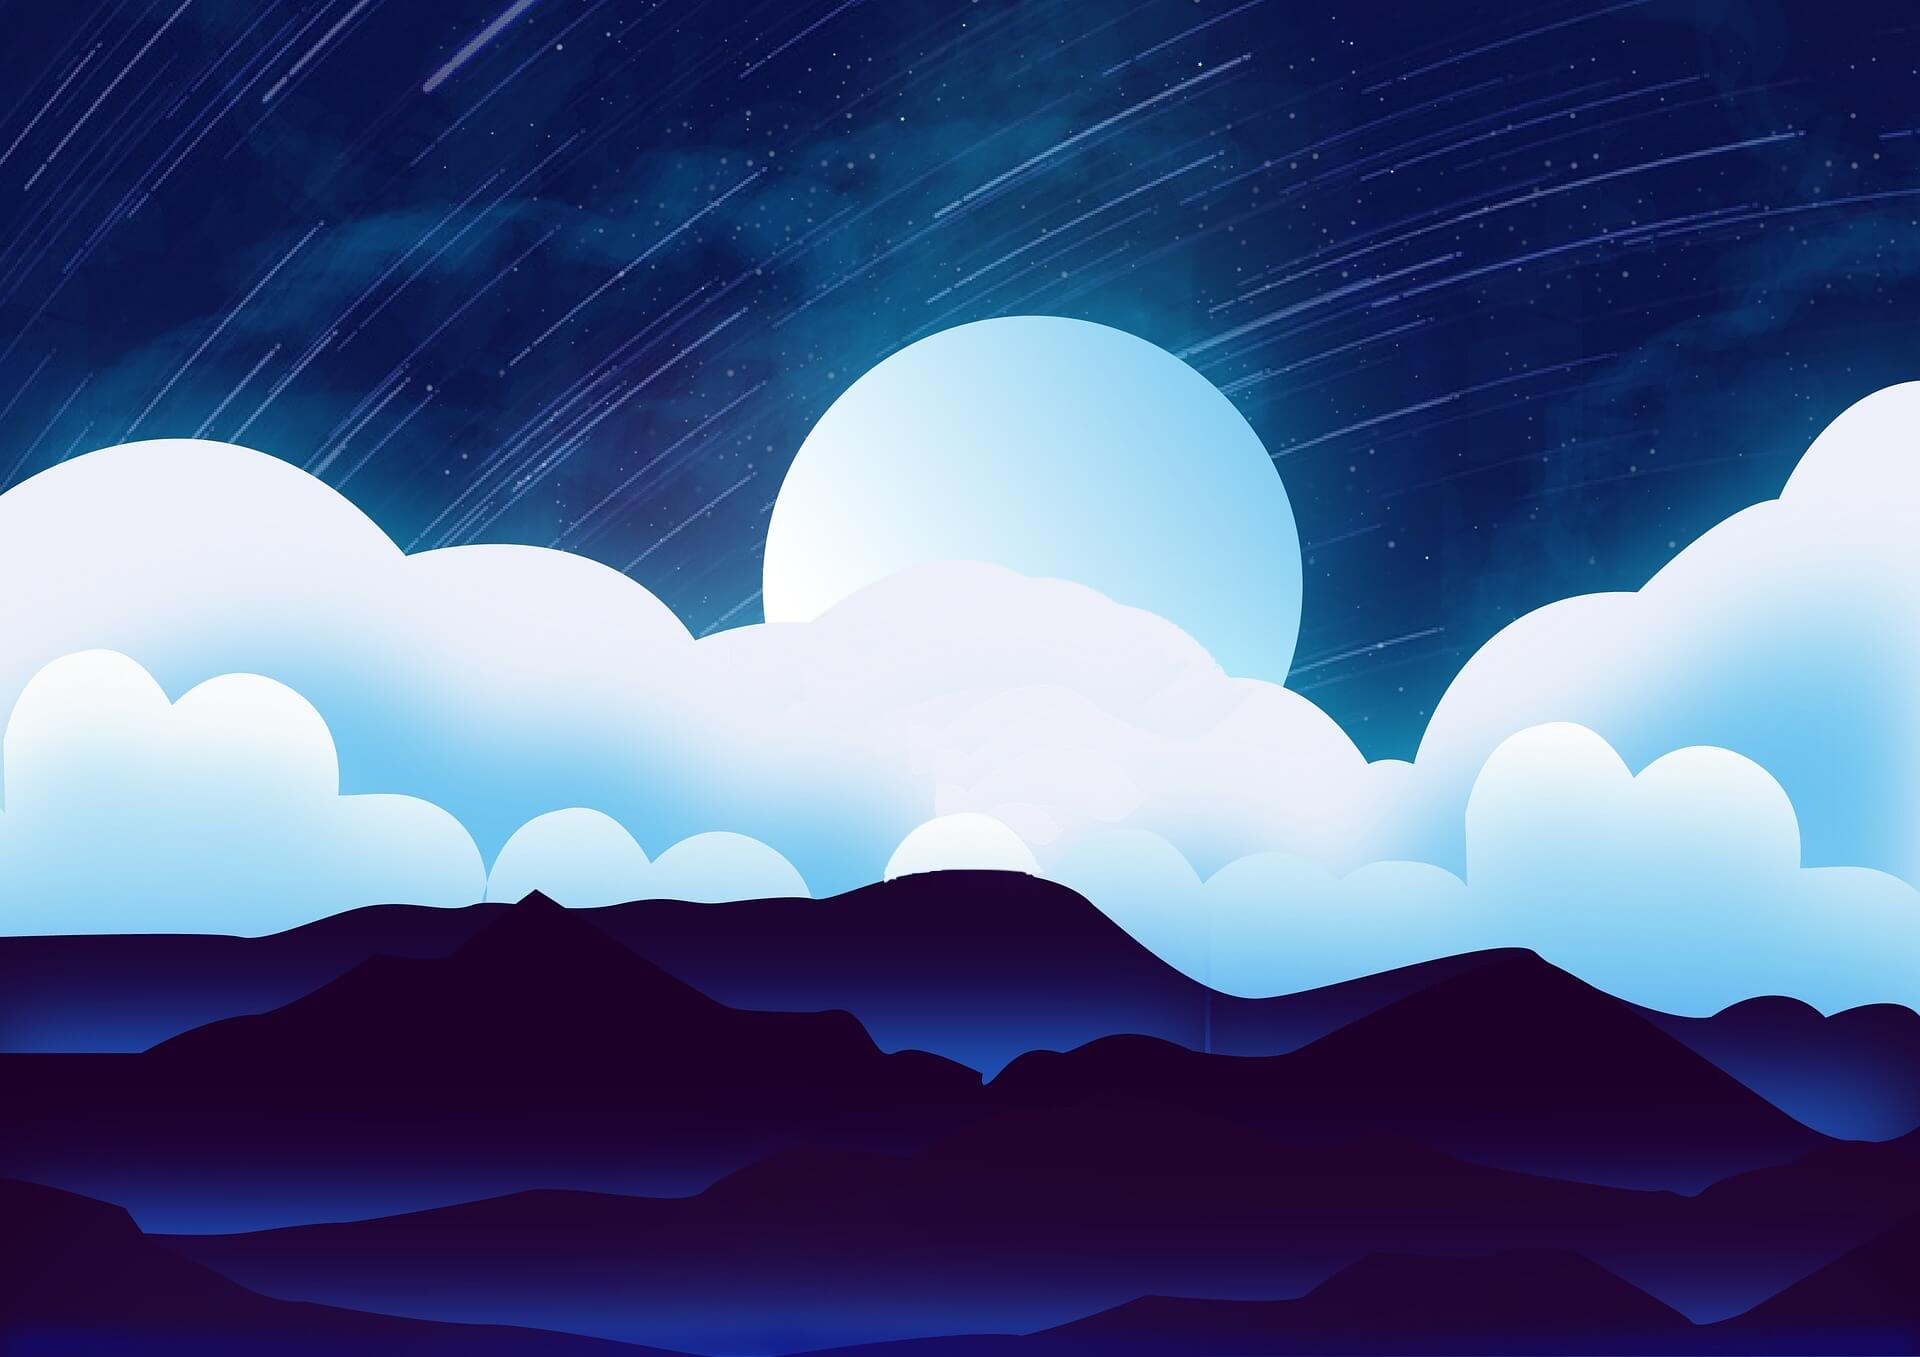
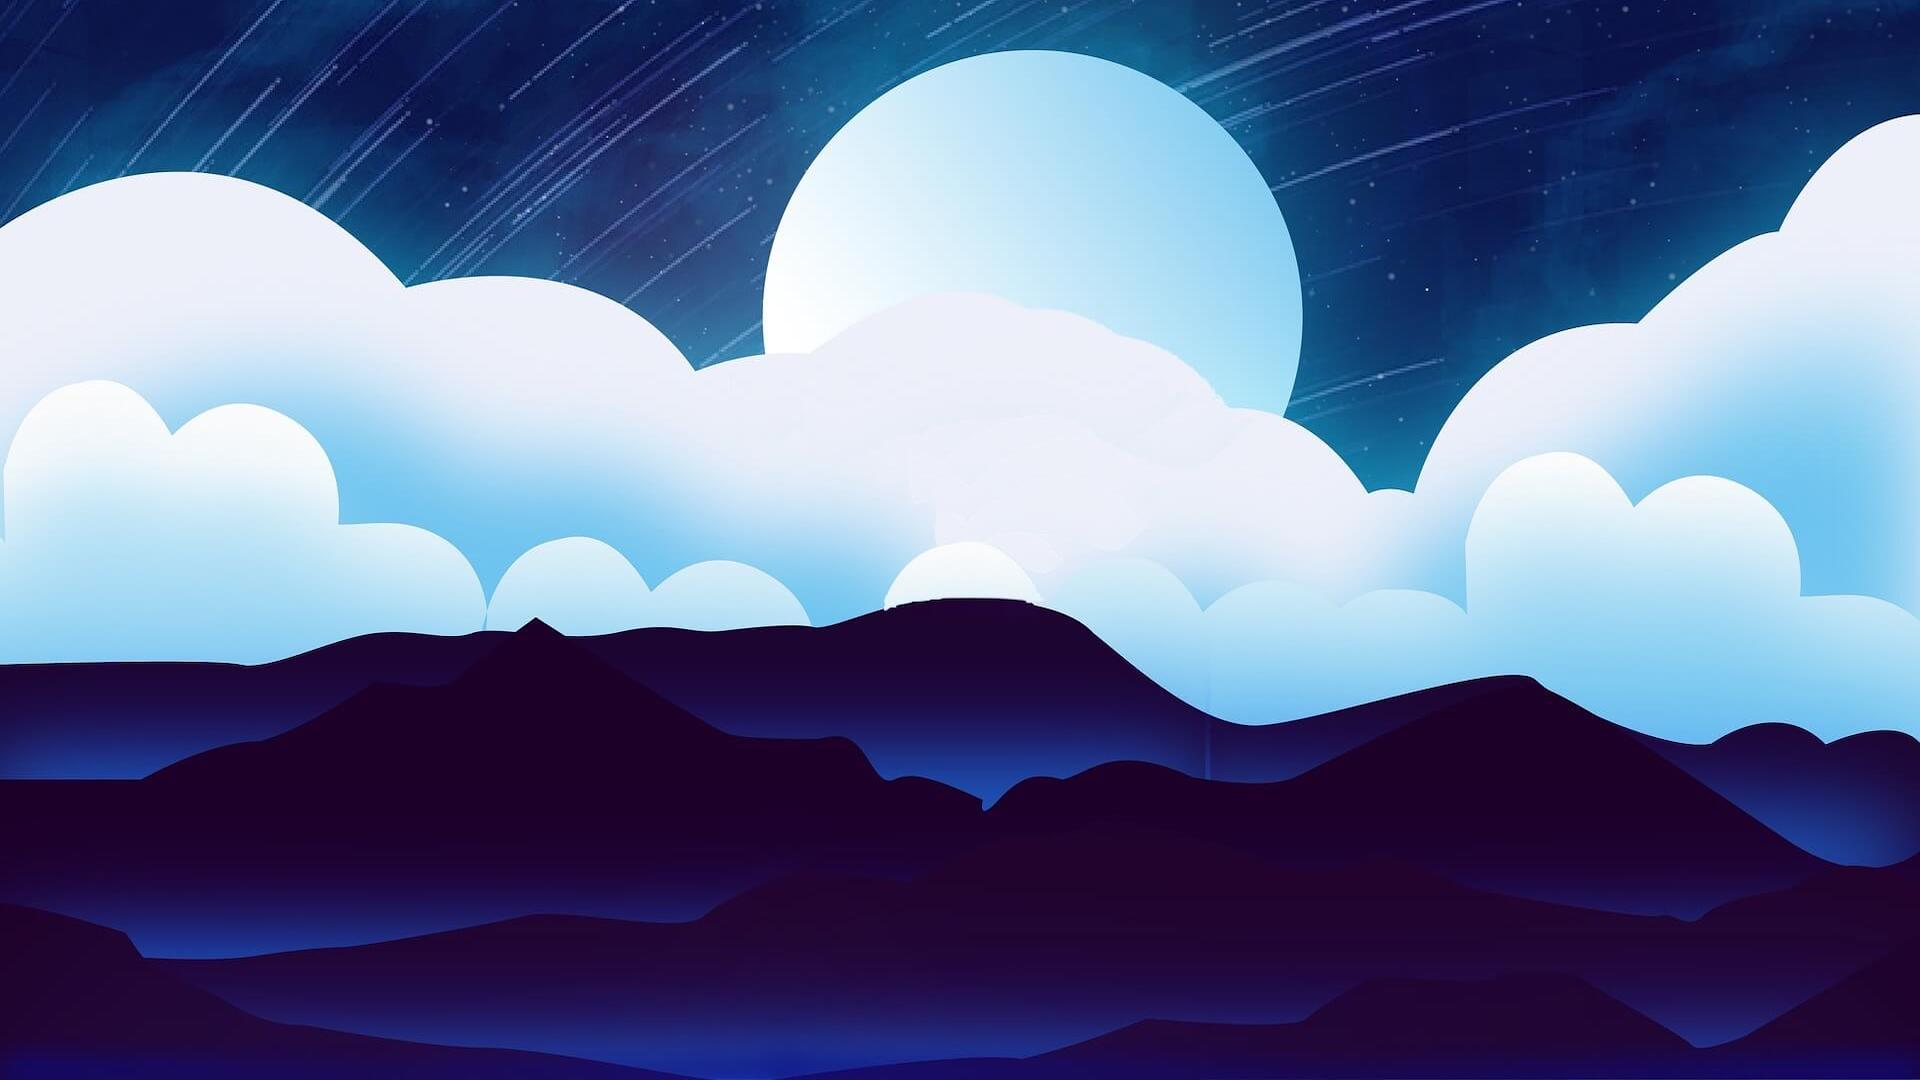
RI-76 responsive images of the planets

diff --git a/src/components/planets/planet.jsx b/src/components/planets/planet.jsx
@@ -8,6 +8,18 @@ import "./planet.css";
 
 const Planet = (props) => {
   const general = useContext(GeneralContext);
+  const xs =
+    require(`../../images/planet-images/320/${props.planetImg}-background.jpg`).default;
+  const s =
+    require(`../../images/planet-images/480/${props.planetImg}-background.jpg`).default;
+  const m =
+    require(`../../images/planet-images/640/${props.planetImg}-background.jpg`).default;
+  const l =
+    require(`../../images/planet-images/960/${props.planetImg}-background.jpg`).default;
+  const xl =
+    require(`../../images/planet-images/1280/${props.planetImg}-background.jpg`).default;
+  const xxl =
+    require(`../../images/planet-images/1920/${props.planetImg}-background.jpg`).default;
 
   return (
     <div id="planet" className="main-background">
@@ -19,11 +31,21 @@ const Planet = (props) => {
         id={props.planet}
         className={`planet-container border padding margin-block-planet-container ${props.bgColor}`}
       >
-        <img
-          className="image-planet"
-          src={props.planetImg}
-          alt={props.imgAlt}
-        />
+        <picture>
+          <source type="image/jpg" media="(max-width: 320px)" srcSet={xs} />
+          <source type="image/jpg" media="(max-width: 480px)" srcSet={s} />
+          <source type="image/jpg" media="(max-width: 640px)" srcSet={m} />
+          <source type="image/jpg" media="(max-width: 960px)" srcSet={l} />
+          <source type="image/jpg" media="(max-width: 1280px)" srcSet={xl} />
+          <source type="image/jpg" media="(max-width: 1920px)" srcSet={xxl} />
+
+          <img
+            className="image-planet"
+            src={xxl}
+            alt={props.imgAlt}
+            type={"image/jpg"}
+          />
+        </picture>
         <p className="planet-description">{props.planetDescription}</p>
         <AliceCarousel
           controlsStrategy={"responsive"}

diff --git a/src/components/planets/venus.jsx b/src/components/planets/venus.jsx
@@ -5,7 +5,6 @@ import PlaceBasic from "../universal/placeBasic";
 import PlaceLaunchPad from "../universal/placeLaunchPad";
 import UserContext from "../../contexts/userContext";
 import GeneralContext from "../../contexts/generalContext";
-import venus from "../../images/venus-background.jpg";
 import casino_webp from "../../images/casino.webp";
 import casino_png from "../../images/casino.png";
 import quiz_png from "../../images/quiz.png";
@@ -75,7 +74,7 @@ const Venus = (props) => {
       bgColor={"venus"}
       planet={"venus"}
       planetDescription={description}
-      planetImg={venus}
+      planetImg={"venus"}
       imgAlt={imgAlt}
       places={items}
     />

diff --git a/src/components/planets/jupiter.jsx b/src/components/planets/jupiter.jsx
@@ -14,7 +14,6 @@ import ufo_png from "../../images/ufo.png";
 import ufo_webp from "../../images/ufo.webp";
 import rocket_png from "../../images/rocket.png";
 import rocket_webp from "../../images/rocket.webp";
-import jupiter from "../../images/jupiter-background.jpg";
 
 const Jupiter = (props) => {
   const user = useContext(UserContext);
@@ -84,7 +83,7 @@ const Jupiter = (props) => {
       bgColor={"jupiter"}
       planet={"jupiter"}
       planetDescription={description}
-      planetImg={jupiter}
+      planetImg={"jupiter"}
       imgAlt={imgAlt}
       places={items}
     />

diff --git a/src/components/planets/mercury.jsx b/src/components/planets/mercury.jsx
@@ -13,7 +13,6 @@ import shop_webp from "../../images/shop.webp";
 import shop_png from "../../images/shop.png";
 import rocket_png from "../../images/rocket.png";
 import rocket_webp from "../../images/rocket.webp";
-import mercury from "../../images/mercury-background.jpg";
 
 const Mercury = (props) => {
   const user = useContext(UserContext);
@@ -85,7 +84,7 @@ const Mercury = (props) => {
     <Planet
       planet={"mercury"}
       planetDescription={description}
-      planetImg={mercury}
+      planetImg={"mercury"}
       imgAlt={imgAlt}
       places={items}
     />

diff --git a/src/components/planets/earth.jsx b/src/components/planets/earth.jsx
@@ -13,7 +13,6 @@ import shop_webp from "../../images/shop.webp";
 import shop_png from "../../images/shop.png";
 import rocket_png from "../../images/rocket.png";
 import rocket_webp from "../../images/rocket.webp";
-import earth from "../../images/earth-background.jpg";
 
 const Earth = (props) => {
   const user = useContext(UserContext);
@@ -87,7 +86,7 @@ const Earth = (props) => {
       bgColor={"earth"}
       planet={"earth"}
       planetDescription={description}
-      planetImg={earth}
+      planetImg={"earth"}
       imgAlt={imgAlt}
       places={items}
     />

diff --git a/src/components/planets/saturn.jsx b/src/components/planets/saturn.jsx
@@ -11,7 +11,6 @@ import quiz_png from "../../images/quiz.png";
 import quiz_webp from "../../images/quiz.webp";
 import shop_webp from "../../images/shop.webp";
 import shop_png from "../../images/shop.png";
-import saturn from "../../images/saturn-background.jpg";
 
 const Saturn = (props) => {
   const user = useContext(UserContext);
@@ -75,7 +74,7 @@ const Saturn = (props) => {
       bgColor={"saturn"}
       planet={"saturn"}
       planetDescription={description}
-      planetImg={saturn}
+      planetImg={"saturn"}
       imgAlt={imgAlt}
       places={items}
     />

diff --git a/src/components/planets/neptune.jsx b/src/components/planets/neptune.jsx
@@ -14,7 +14,6 @@ import ufo_png from "../../images/ufo.png";
 import ufo_webp from "../../images/ufo.webp";
 import rocket_png from "../../images/rocket.png";
 import rocket_webp from "../../images/rocket.webp";
-import neptune from "../../images/neptune-background.jpg";
 
 const Neptune = (props) => {
   const user = useContext(UserContext);
@@ -83,7 +82,7 @@ const Neptune = (props) => {
     <Planet
       planet={"neptune"}
       planetDescription={description}
-      planetImg={neptune}
+      planetImg={"neptune"}
       imgAlt={imgAlt}
       places={items}
     />

diff --git a/src/components/planets/uranus.jsx b/src/components/planets/uranus.jsx
@@ -12,7 +12,6 @@ import quiz_png from "../../images/quiz.png";
 import quiz_webp from "../../images/quiz.webp";
 import bar_png from "../../images/bar.png";
 import bar_webp from "../../images/bar.webp";
-import uranus from "../../images/uranus-background.jpg";
 
 const Uranus = (props) => {
   const user = useContext(UserContext);
@@ -73,7 +72,7 @@ const Uranus = (props) => {
       bgColor={"uranus"}
       planet={"uranus"}
       planetDescription={description}
-      planetImg={uranus}
+      planetImg={"uranus"}
       imgAlt={imgAlt}
       places={items}
     />

diff --git a/src/components/planets/mars.jsx b/src/components/planets/mars.jsx
@@ -11,7 +11,6 @@ import quiz_png from "../../images/quiz.png";
 import quiz_webp from "../../images/quiz.webp";
 import bar_png from "../../images/bar.png";
 import bar_webp from "../../images/bar.webp";
-import mars from "../../images/mars-background.jpg";
 
 const Mars = (props) => {
   const user = useContext(UserContext);
@@ -75,7 +74,7 @@ const Mars = (props) => {
       bgColor={"mars"}
       planet={"mars"}
       planetDescription={description}
-      planetImg={mars}
+      planetImg={"mars"}
       imgAlt={imgAlt}
       places={items}
     />

diff --git a/src/components/planets/pluto.jsx b/src/components/planets/pluto.jsx
@@ -14,7 +14,6 @@ import shop_webp from "../../images/shop.webp";
 import shop_png from "../../images/shop.png";
 import ufo_png from "../../images/ufo.png";
 import ufo_webp from "../../images/ufo.webp";
-import pluto from "../../images/pluto-background.jpg";
 
 const Pluto = (props) => {
   const user = useContext(UserContext);
@@ -83,7 +82,7 @@ const Pluto = (props) => {
     <Planet
       planet={"pluto"}
       planetDescription={description}
-      planetImg={pluto}
+      planetImg={"pluto"}
       imgAlt={imgAlt}
       places={items}
     />

diff --git a/src/components/planets/planet.css b/src/components/planets/planet.css
@@ -38,6 +38,12 @@ h4 {
   }
 }
 
+@media screen and (min-width: 1620px) {
+  .planet-container {
+    width: min(60%, 70rem);
+  }
+}
+
 .planet-split {
   display: flex;
   flex-direction: column;
